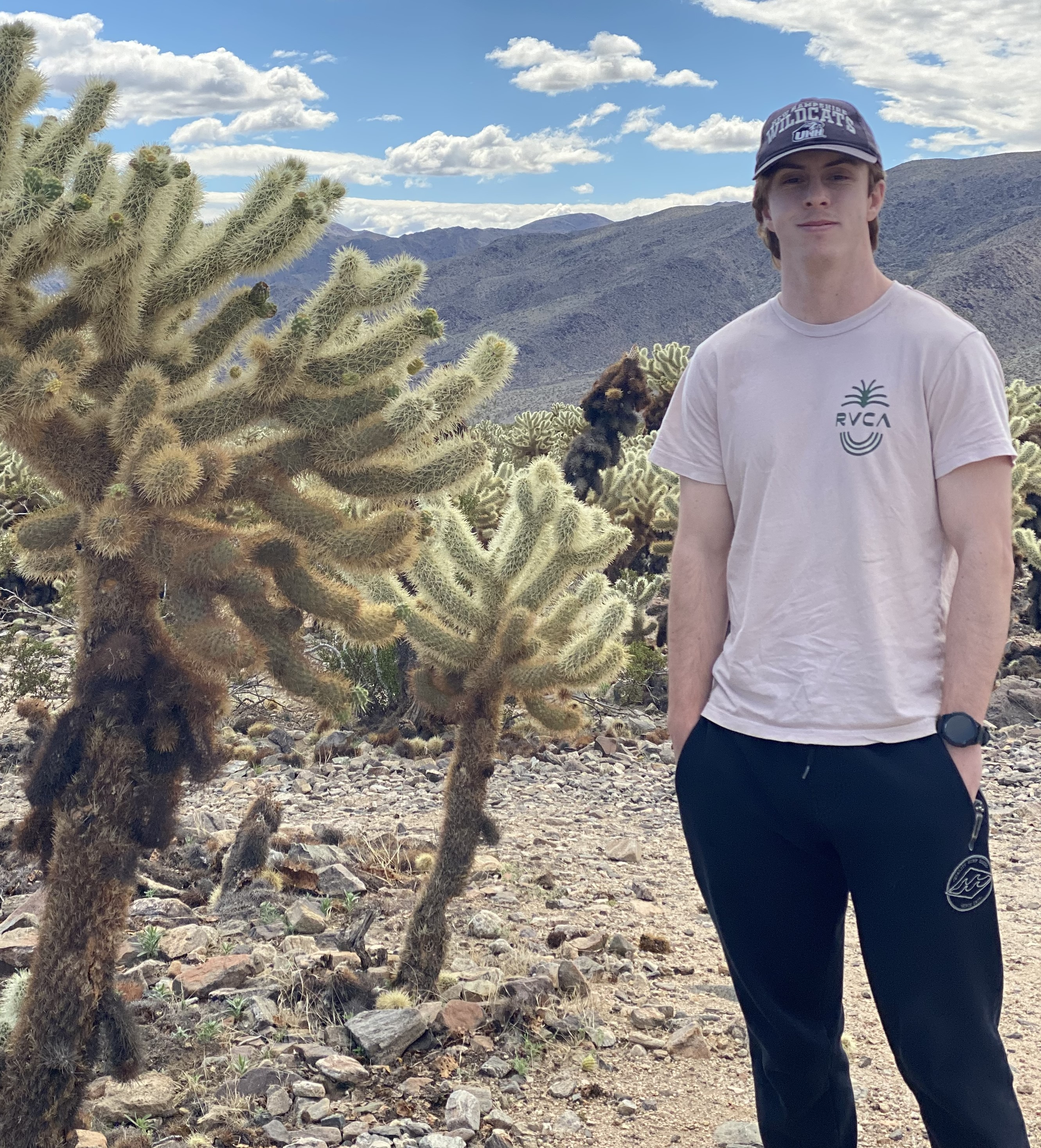
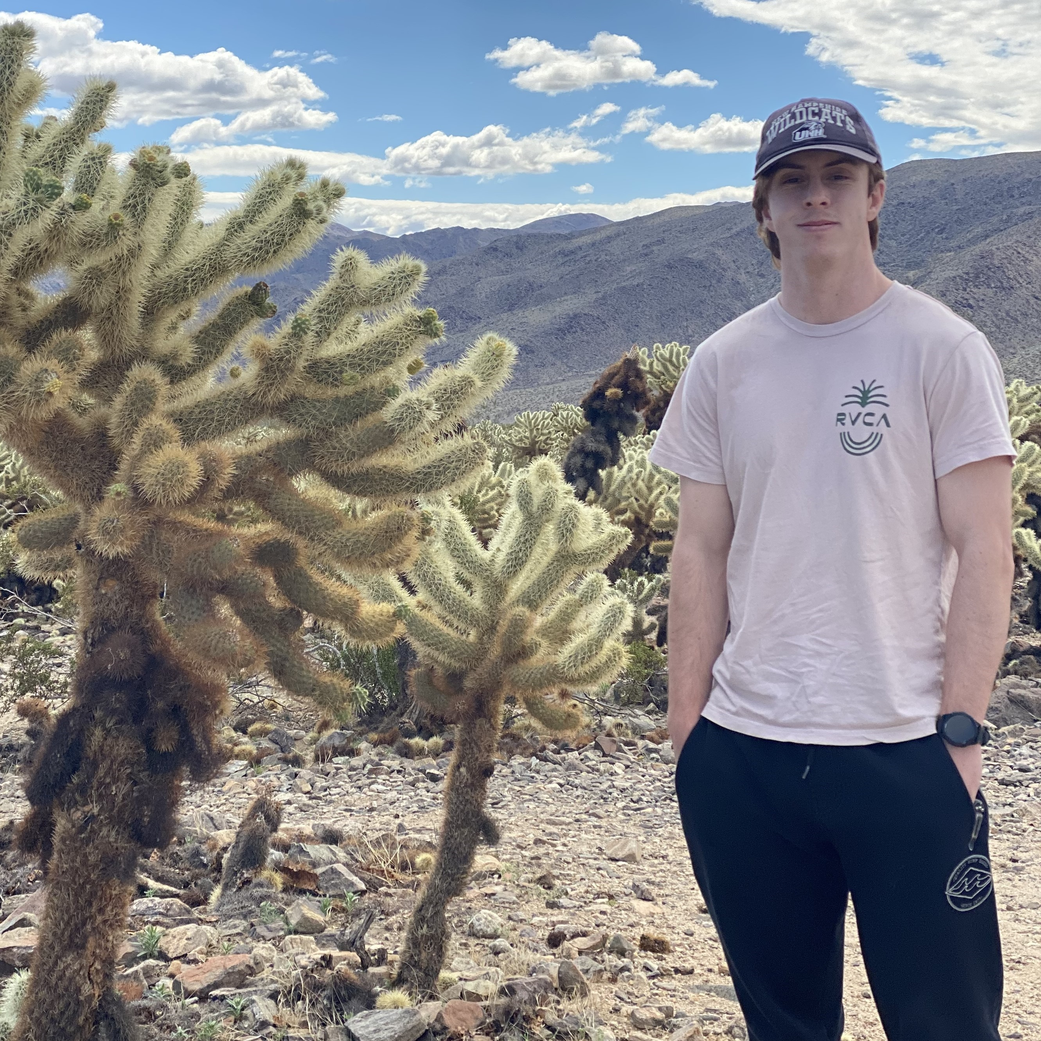
Update to lab group/project images
Cropped Ethan's portrait. Added TMV summary image.

diff --git a/index.html b/index.html
@@ -152,15 +152,15 @@
 									<article class="item">
 										<a href="secondary_pages/ASFB_details.html" class="image fit"><img src="images/irgie_on_water.jpg" alt="" /></a>
 										<header>
-											<h3>Development of the Air-Sea Flux Buoy</h3>
+											<h3>Development of an Air-Sea Flux Buoy</h3>
 										</header>
 									</article>
 								</div>
 								<div class="col-4 col-12-mobile">
 									<article class="item">
-										<a href="#" class="image fit"><img src="images/pic06.jpg" alt="" /></a>
+										<a href="#" class="image fit"><img src="images/sustain_TMV_schematic_2022.png" alt="" /></a>
 										<header>
-											<h3>AT THE MOMENT</h3>
+											<h3>Characterization of Near-Surface Turbulence via Thermal Marking Velocimetry</h3>
 										</header>
 									</article>
 								</div>
